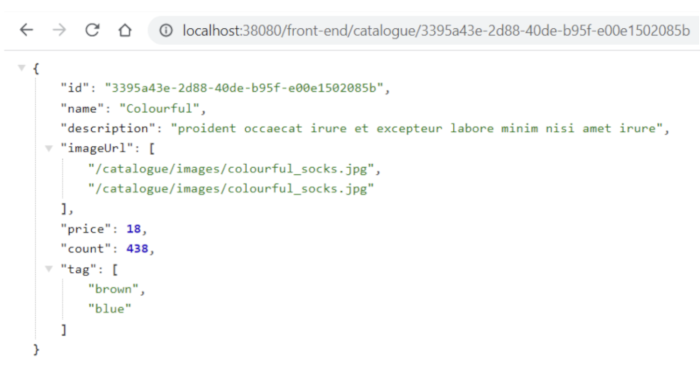
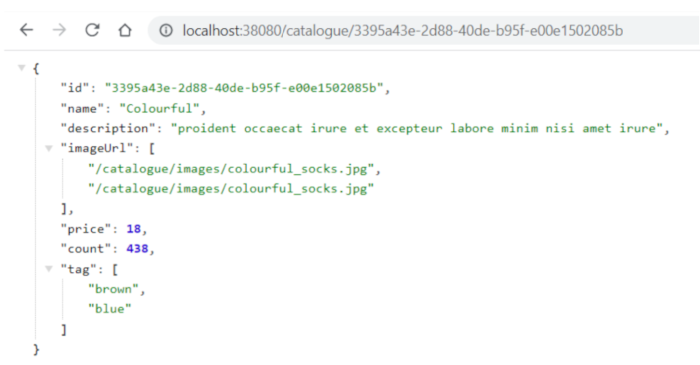
Remove prefix from ingress

Changed region(s): [[0.39, 0.0603, 0.99, 0.1205]]

diff --git a/README.md b/README.md
@@ -175,7 +175,7 @@ ingress.networking.k8s.io/front-end-ingress created
 You can test the access to the `front-end` service with the following command:
 
 ```shell
-curl -s localhost:38080/front-end/catalogue/3395a43e-2d88-40de-b95f-e00e1502085b
+curl -s localhost:38080/catalogue/3395a43e-2d88-40de-b95f-e00e1502085b
 ```
 
 Output:
@@ -188,11 +188,7 @@ Notice that the URL uses `localhost` as the IP address and `38080` as the port. 
 
 If you changed the port mapping in kind you must use that port.
 
-Also, notice the URL includes the `/front-end` prefix which is used by the ingress for mapping requests to the `front-end` service.
-
-> Using an ingress does not work for accessing the front-end service from a browser, as the URL re-write rule breaks the links to in the HTML document.
-
-If you are running on Windows OS, and the command returns a message `cmdlet Invoke-WebRequest at command pipeline position 1 Supply values for the following parameters: Uri:`, make sure you are using a [Windows Terminal](https://apps.microsoft.com/store/detail/windows-terminal/9N0DX20HK701), not Powershell, as documented on [stackoverflow](https://stackoverflow.com/questions/67102759/getting-msg-as-cmdlet-invoke-webrequest-at-command-pipeline-position-1-supply-v). Alternatively, open the browser on the URL http://localhost:38080/front-end/catalogue/3395a43e-2d88-40de-b95f-e00e1502085b and check the resulting JSON.
+If you are running on Windows OS, and the command returns a message `cmdlet Invoke-WebRequest at command pipeline position 1 Supply values for the following parameters: Uri:`, make sure you are using a [Windows Terminal](https://apps.microsoft.com/store/detail/windows-terminal/9N0DX20HK701), not Powershell, as documented on [stackoverflow](https://stackoverflow.com/questions/67102759/getting-msg-as-cmdlet-invoke-webrequest-at-command-pipeline-position-1-supply-v). Alternatively, open the browser on the URL http://localhost:38080/catalogue/3395a43e-2d88-40de-b95f-e00e1502085b and check the resulting JSON.
 
 ![test](images/browser-frontend-catalogue.png)
 
@@ -215,13 +211,13 @@ The `test-front-end.js` script expects the URL to the `front-end` service in the
 On Linux run:
 
 ```shell
-SVC_URL="localhost:38080/front-end"
+SVC_URL="localhost:38080"
 ```
 
 If you are running on Windows OS, set the environment variable on a [Windows Terminal](https://apps.microsoft.com/store/detail/windows-terminal/9N0DX20HK701):
 
 ```shell
-set SVC_URL="localhost:38080/front-end"
+set SVC_URL="localhost:38080"
 ```
 
 ### Run baseline
